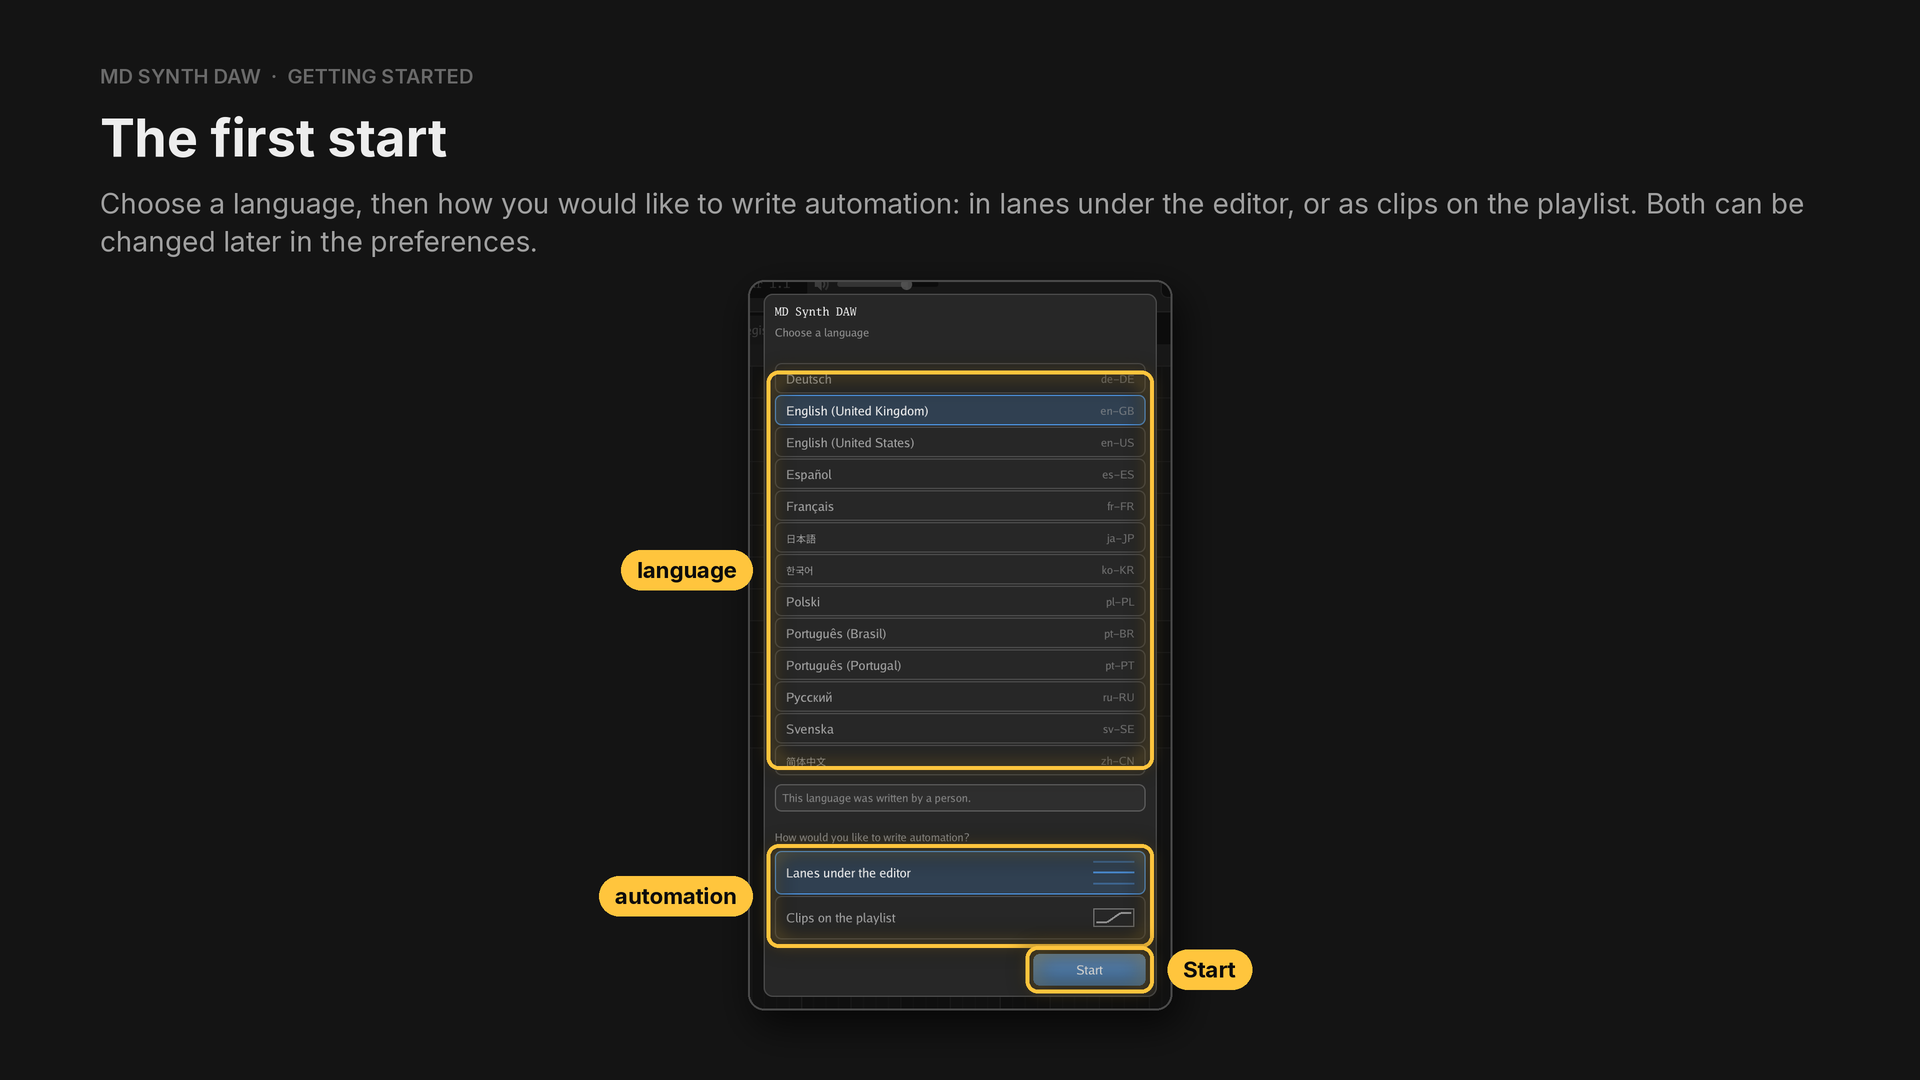
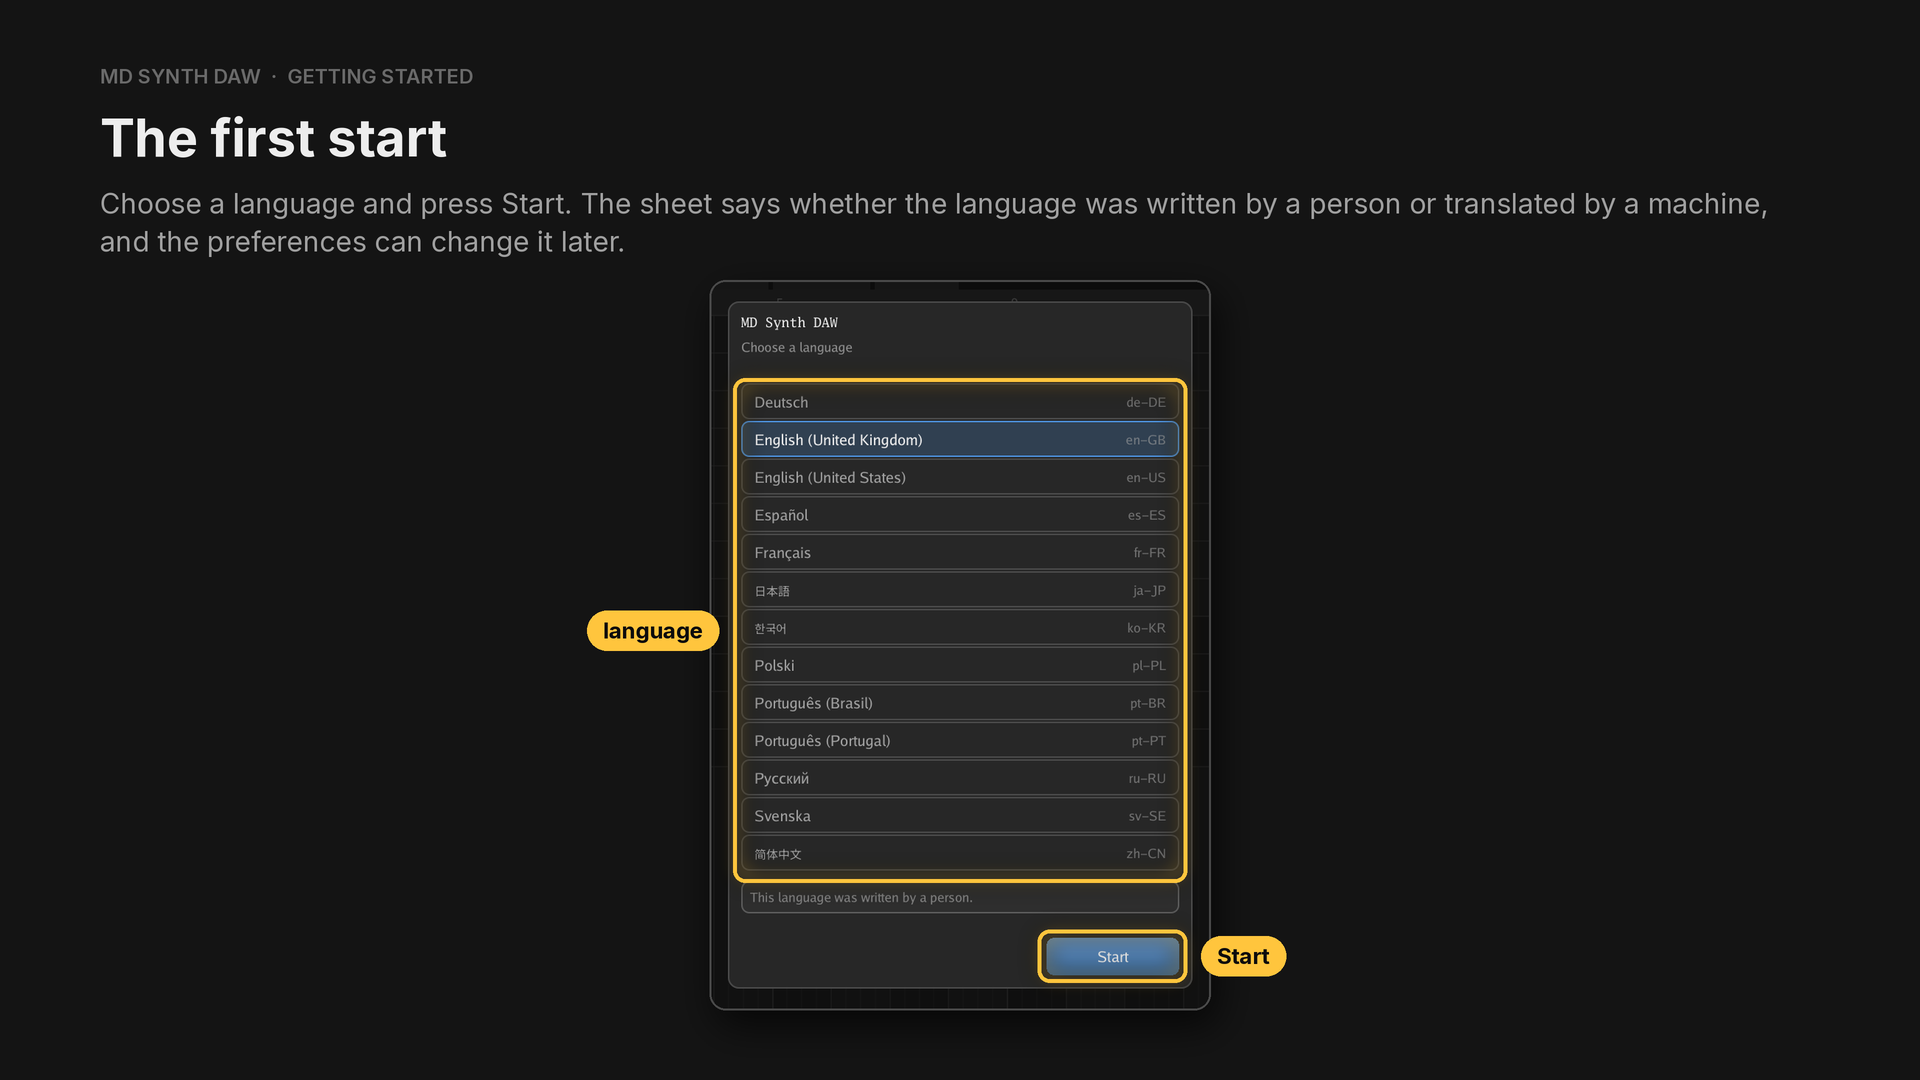
[Docs] the user manual no longer shows writing automation as clips on the playlist

Changed region(s): [[0.2812, 0.275, 0.6875, 0.9472], [0.0625, 0.1833, 0.9375, 0.2444], [0.4375, 0.2444, 0.4688, 0.275]]

diff --git a/docs/user-manual.md b/docs/user-manual.md
@@ -266,14 +266,12 @@ you'll quickly get the hang of it, as most of its inspiration comes from there.
 
 ## 9. The first start
 
-![The welcome sheet: language, and how to write automation](images/manual/basics/getting-started/01-welcome.png)
+![The welcome sheet](images/manual/basics/getting-started/01-welcome.png)
 
-The first time MD Synth DAW starts, it asks two things. **Choose a language**: thirteen ship, and
-the sheet says whether the one you pick was written by a person or translated by a machine. English
-(UK and US) is written by people, and the rest are machine translated. Then **how would you like to
-write automation**: **Lanes under the editor** puts it under the piano roll, and **Clips on the
-playlist** puts it on the playlist as clips of its own. Press **Start**. The language can be changed
-later in **Preferences**, **Look**, and the automation choice in **Preferences**, **Editing**.
+The first time MD Synth DAW starts, it asks you to **choose a language**. Thirteen ship, and the
+sheet says whether the one you pick was written by a person or translated by a machine. English (UK
+and US) is written by people, and the rest are machine translated. Press **Start**. The language can
+be changed later in **Preferences**, **Look**.
 
 <p align="right">(<a href="#top">back to top</a>)</p>
 
@@ -742,7 +740,7 @@ changes until you save.
 | Group | What it holds |
 | --- | --- |
 | Look | theme, part colours, typeface, motion, density, text size, language, graphics backend, system monitor |
-| Editing | lanes or clips for automation, silence before looping, right clicking a clip, changing the tempo, note names |
+| Editing | silence before looping, right clicking a clip, changing the tempo, note names |
 | Files | autosave, backups, projects folder, presets folder, project files |
 | Updates | whether to look for a newer version at launch |
 | MIDI | keyboard, channel, velocity, pitch bend range, eight controller slots |
@@ -804,9 +802,6 @@ every note the preset plays, the way a synthesizer's envelopes and LFOs do.
 | Written | once a frame, where the value changes | every millisecond, where the value changes |
 | Pitch | `FREQ`, in F number steps | `PITCH`, in cents |
 | Both on one register | this one plays | this one is left out |
-
-A lane's menu also offers **Move to the playlist**, which turns it into an automation clip you can
-place and reuse on the playlist.
 
 <p align="right">(<a href="#top">back to top</a>)</p>
 
